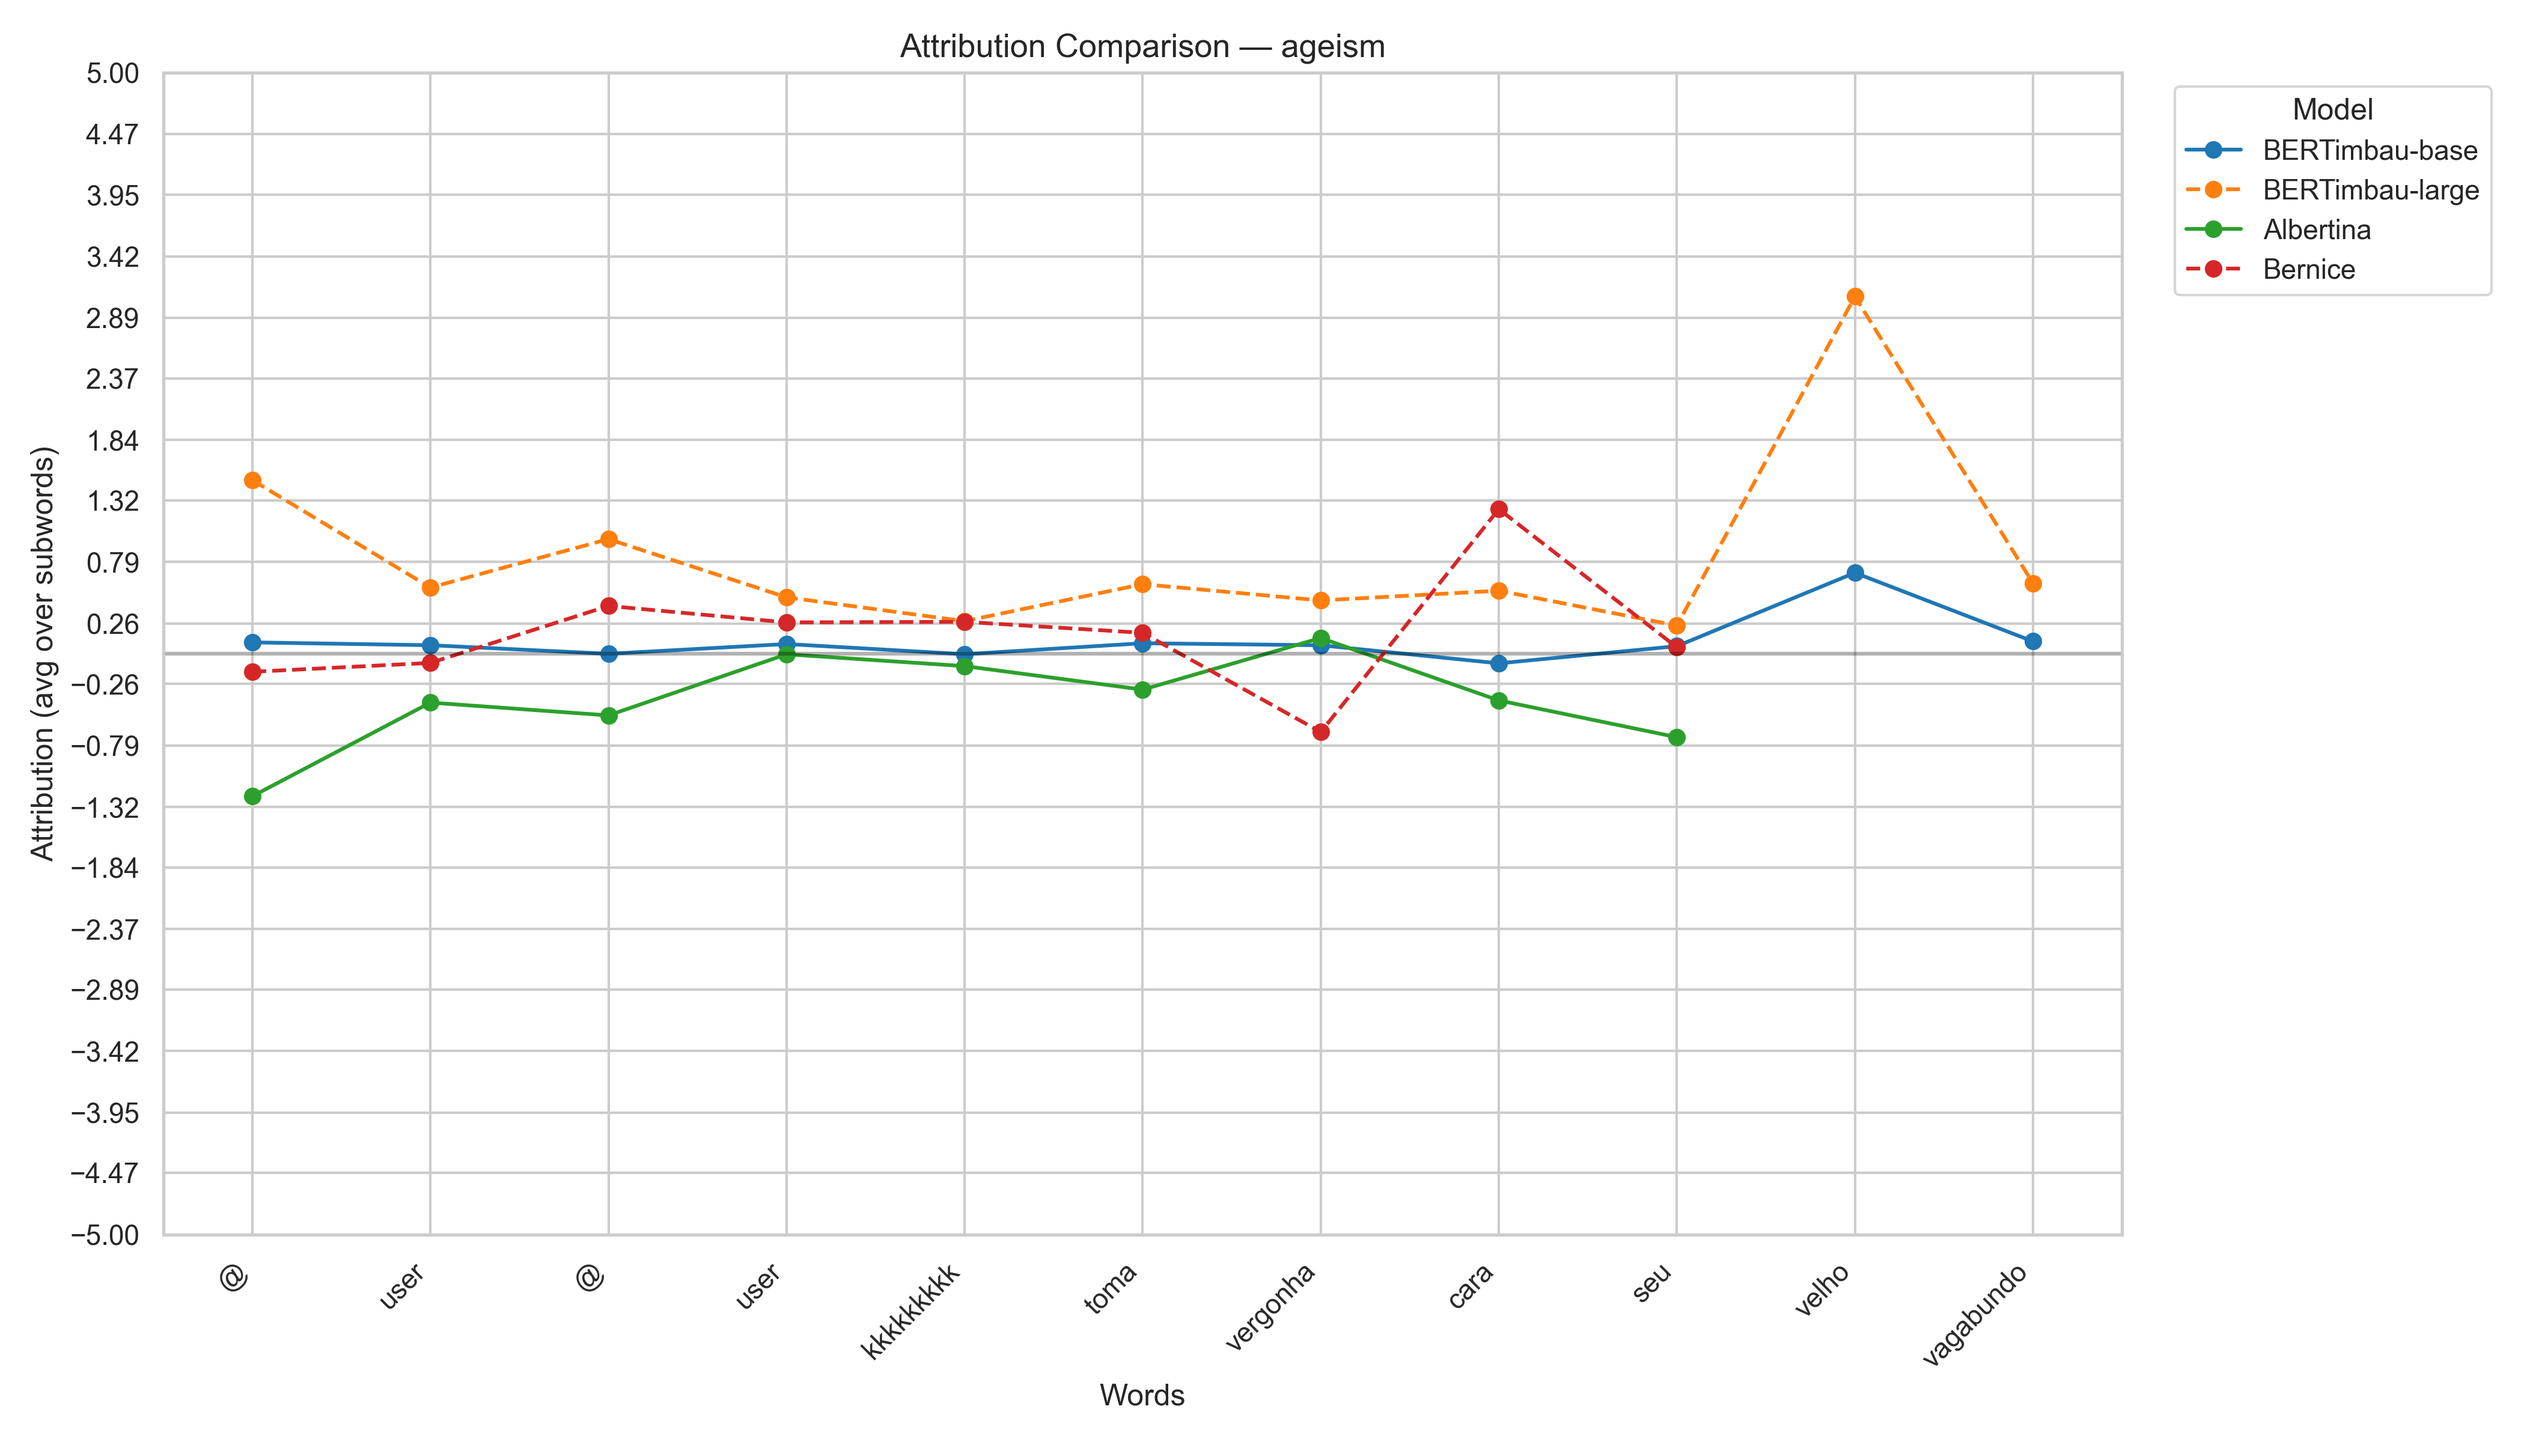
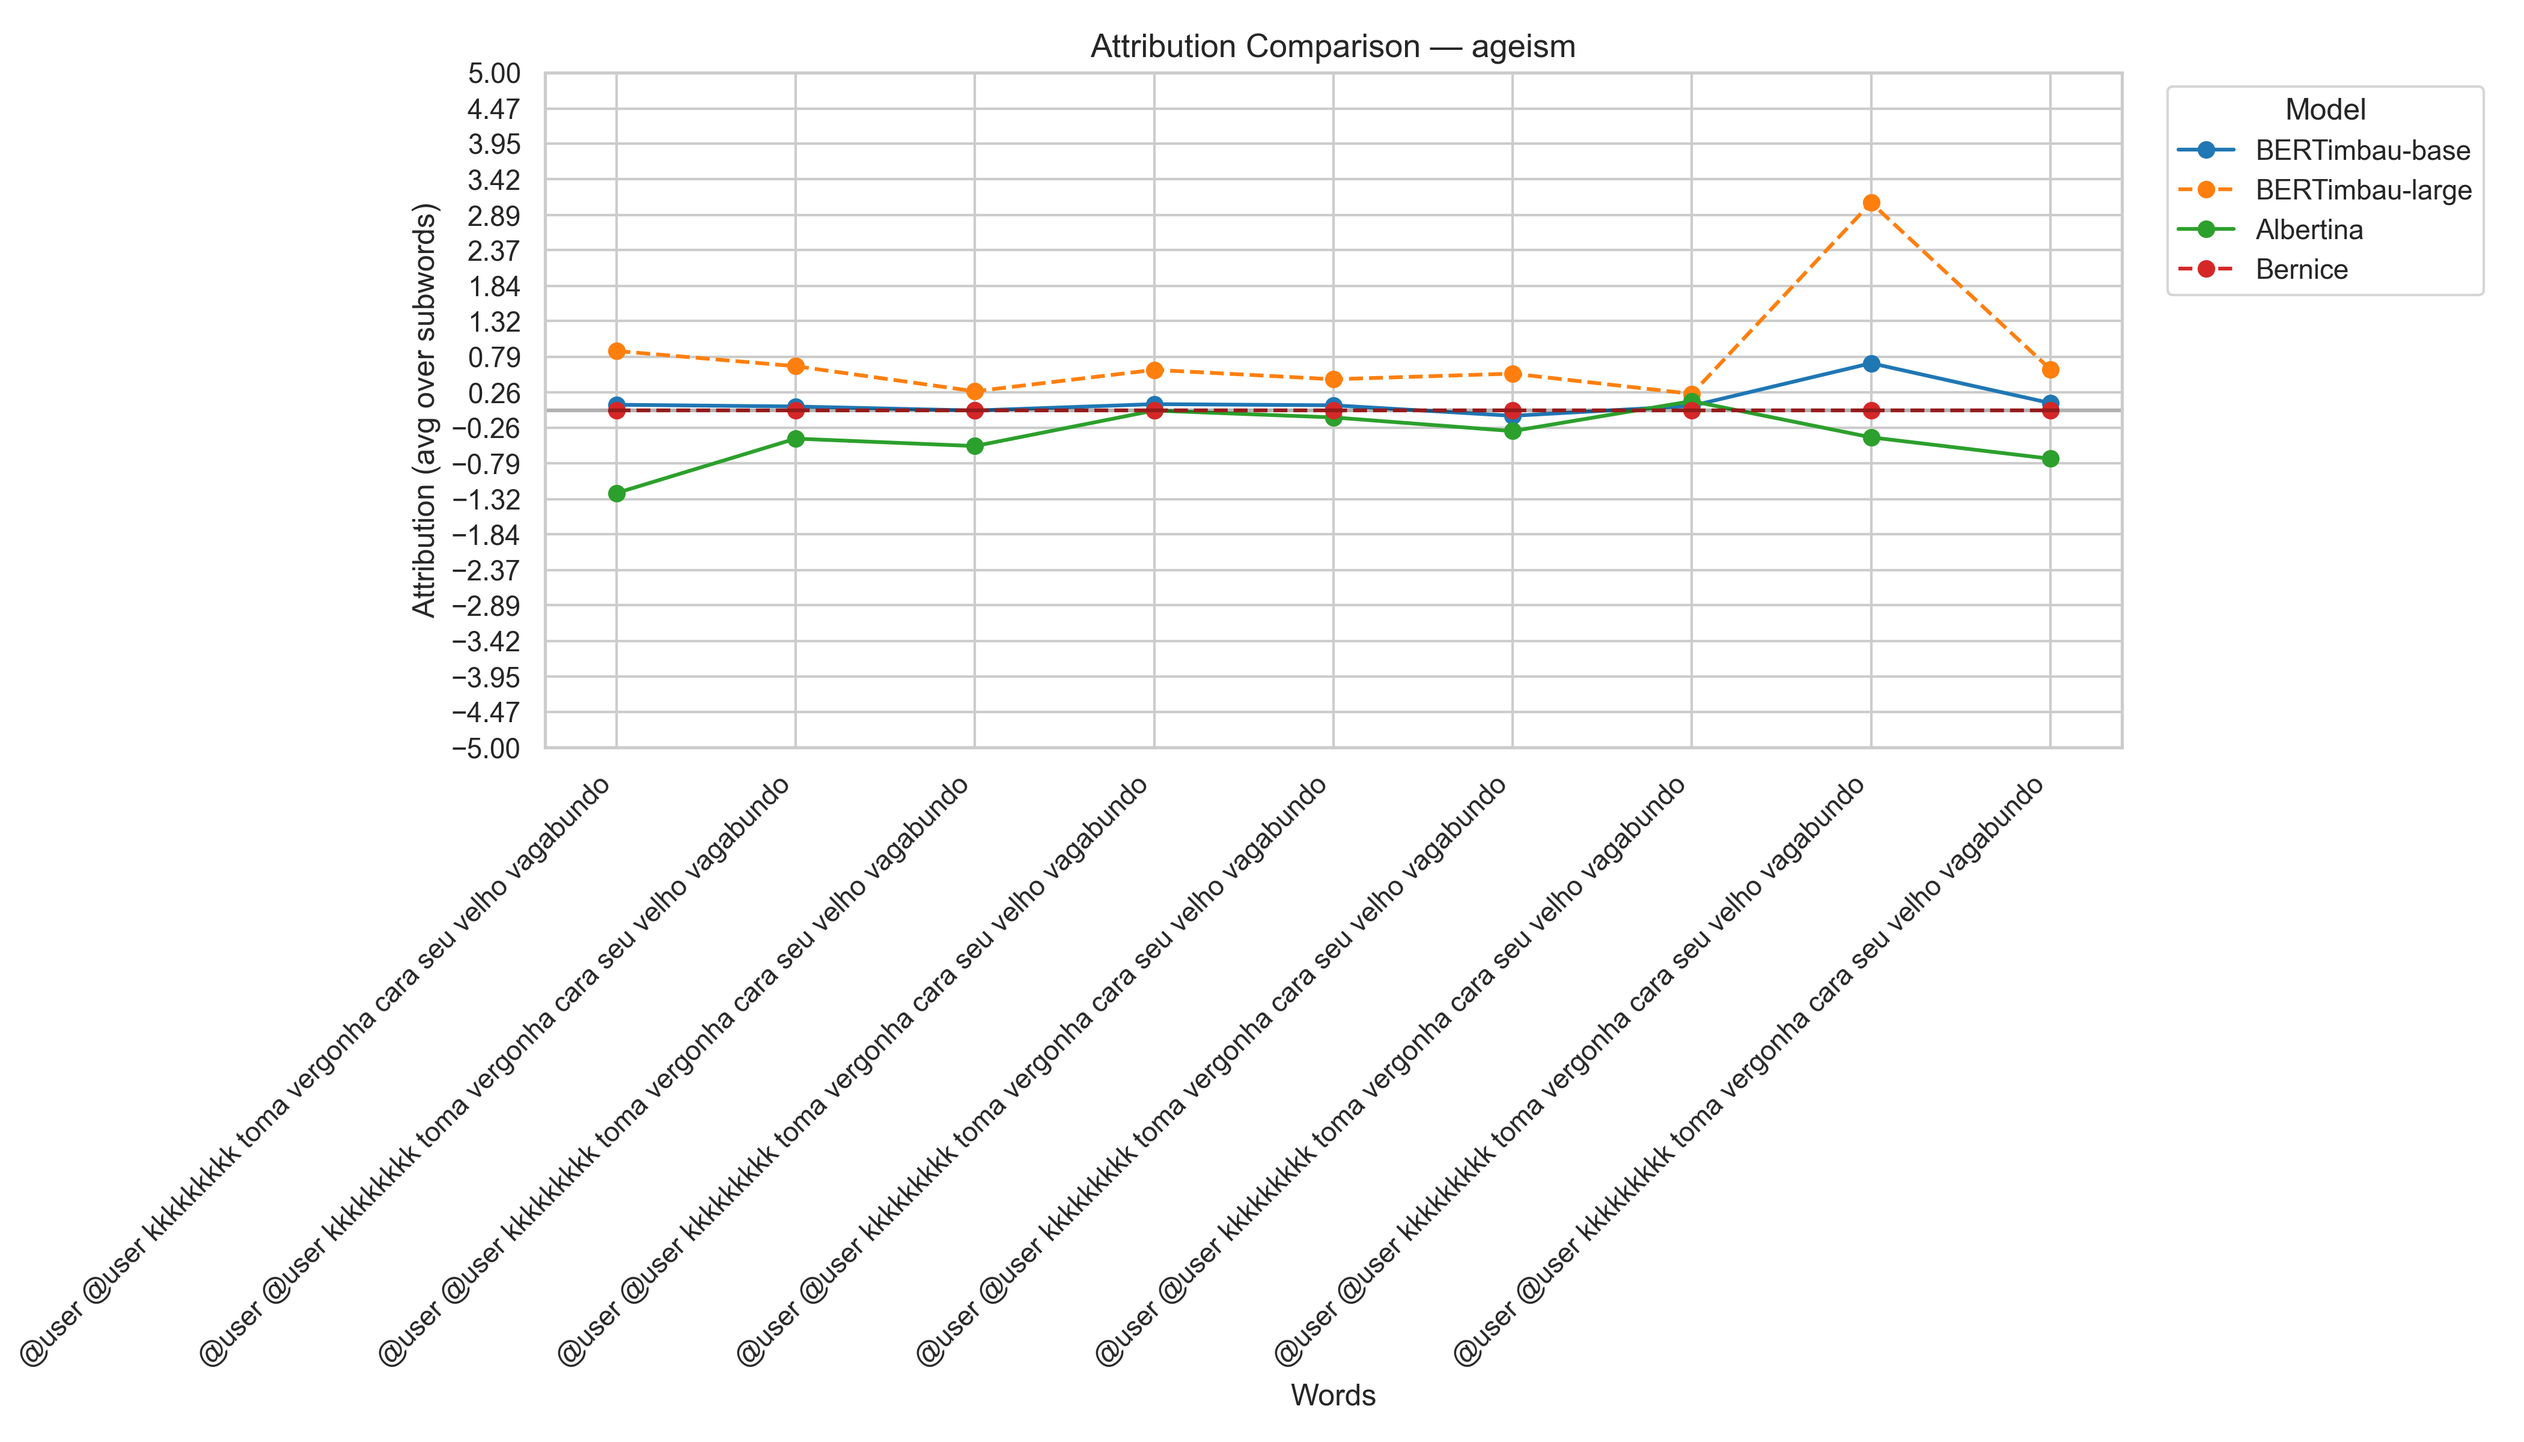
falta consertar bernice e plot de comparação de atribuições de modelos

diff --git a/src/analysis.py b/src/analysis.py
@@ -12,15 +12,23 @@ def compareAttr(model_names: list, instances: pd.DataFrame):
     indices = instances.index.to_list()
     
     for i in tqdm(indices, desc="Comparing model attributions"):
+        
         inst_dfs = []
-        target_class = instances.loc[i]["class"]
+        instance = instances.loc[[i]]
+        target_class = instance["class"].values[0]
+        text = instance["text"].values[0]
+        
+        df = pd.DataFrame()
+        df["word"] = text.split(' ')
         
         for name in model_names:
-            inst_dfs.append(loadAttributions(name, instances.loc[[i]])) #mudar para cada linha ser uma palavra e cada coluna um modelo
+            df[name] = loadAttributions(name, instance)["attribution"]
         
-        inst_dfs = pd.concat(inst_dfs, ignore_index=True)
+        print(df)
         
         dataVisualization.plotModelComparison(inst_dfs, target_class, model_names, save_path=f'analysis/{target_class}-{i}.png', show=False)
+        
+        raise
 
 
 def loadAttributions(model_name, instance) -> pd.DataFrame:
@@ -30,61 +38,68 @@ def loadAttributions(model_name, instance) -> pd.DataFrame:
     """
     path = f"{config.ig_dir}/{model_name}.csv"
     
-    target_class = instance["class"].values
-    words = instance["text"].values
-    text_id = instance.index
-    
-    print(instance)
-    raise
+    target_class = instance["class"].values[0]
+    text = instance["text"].values[0]
+    text_id = instance.index.values[0]
     
     df = pd.read_csv(path, index_col=0)
     df = df[df['text_id'] == text_id].reset_index(drop=True)
 
-    if df.empty:
-        raise(f"text_id {text_id} not found in {model_name}.csv")
-
     tokens = df['token'].tolist()
     attr = df[target_class].values
 
-    avg_attrs = detokenize(tokens, attr, model_name)
+    avg_attrs = detokenize(tokens, attr, text, model_name)
     
-    data = {'model': model_name, 'word': words, 'attribution': avg_attrs}
+    data = {'model': model_name, 'word': text, 'attribution': avg_attrs}
 
-    return pd.DataFrame(data)
+    return data
 
 
 # tokens that always start a new word regardless of ▁
 WORD_START_TOKENS = {'@USER', 'HTTPURL', 'URL'}
 
-def detokenize(tokens: list[str], attributions: np.ndarray, model_name: str):
+def detokenize(tokens: list[str], attributions: np.ndarray, text: str, model_name: str):
     
     #iterar sobre tokens atribuidos: (1) tirar char especiais e (2) "subtrair" da frase o token
     
     is_bert_style = 'bertimbau' in model_name.lower()
 
-    words   = []
-    weights = []
+    words = text.split(' ')
 
+    avg_weights = np.empty(len(words))
+    
+    current_word_idx = 0
+    current_word = words[current_word_idx]
+
+    w_weights = []
+    
     for token, attr in zip(tokens, attributions):
+            
         if is_bert_style:
             is_continuation = token.startswith('##')
         else:
             # placeholders Bernice e tokens com @ sempre iniciam nova palavra
             is_word_start   = token.startswith('▁') or token in WORD_START_TOKENS or token.startswith('@')
-            is_continuation = not is_word_start and len(words) > 0
+            is_continuation = not is_word_start
 
-        if is_continuation and words:
-            clean = token[2:] if is_bert_style else token
-            words[-1] += clean
-            weights[-1].append(float(attr))
-        
+        #possivelmente achar um jeito de ir subtraindo string original
+
+        if is_continuation:
+            clean_token = token[2:] if is_bert_style else token
         else:
-            clean = token.replace('▁', '').strip()
-            words.append(clean or token)
-            weights.append([float(attr)])
-
-    avg_weights = np.array([np.mean(w) for w in weights])
-    return words, avg_weights
+            clean_token = token.replace('▁', '').strip()
+            
+        current_word = current_word.removeprefix(clean_token)
+        
+        w_weights.append(attr)
+        
+        if current_word == "":
+            avg_weights[current_word_idx] = np.array(w_weights).mean()
+            current_word_idx += 1 if current_word_idx < len(words)-1 else -1
+            current_word = words[current_word_idx]
+            w_weights = []
+    
+    return avg_weights
 
 
 if __name__ == "__main__":
